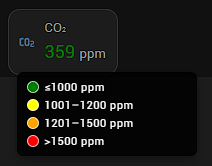
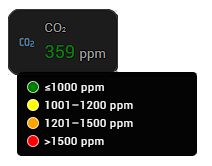
Update readme

diff --git a/numeric-legend-card.js b/numeric-legend-card.js
@@ -3,7 +3,7 @@
 
 import { LitElement, html, css } from "lit";
 
-const CARD_VERSION = "0.2.5";
+const CARD_VERSION = "0.2.6";
 
 console.info(
   `%cSENSOR-LEGEND-CARD %c${CARD_VERSION}`,

diff --git a/README.md b/README.md
@@ -13,8 +13,8 @@ Custom Lovelace card for Home Assistant dashboards that shows a single sensor va
 
 ### HACS (recommended)
 1. In Home Assistant open **HACS → Frontend → ⋮ → Custom repositories**.
-2. Add this repo URL (`https://github.com/VahaC/HA-Sensor-legend-card`) and pick category **Lovelace**.
-3. After the repository appears in HACS, press **Download**. HACS will copy the whole folder into `/config/www/community/sensor-legend-card/`. Only the bundled `sensor-legend-card.js` is required at runtime; the `src/` directory contains the unbundled sources and is there just for reference.
+2. Add this repo URL (`https://github.com/VahaC/HA-Sensor-legend-card`) and pick category **Dashboard**.
+3. After the repository appears in HACS, press **Download**. 
 4. Restart Home Assistant (or click **Reload resources**) so the new resource is picked up.
 5. Add the resource automatically via HACS prompt or manually under **Settings → Dashboards → Resources** with:
 	 - URL: `/hacsfiles/sensor-legend-card/sensor-legend-card.js`
@@ -22,7 +22,7 @@ Custom Lovelace card for Home Assistant dashboards that shows a single sensor va
 
 ### Manual
 1. Download the latest `sensor-legend-card.js` from the releases page.
-2. Copy it to your Home Assistant `config/www/sensor-legend-card/` folder (create the folder if missing). The `src/` directory in the repo only contains development sources, so you can skip it for manual installs.
+2. Copy it to your Home Assistant `config/www/sensor-legend-card/` folder (create the folder if missing). 
 3. Add a Lovelace resource pointing to `/local/sensor-legend-card/sensor-legend-card.js` with resource type `module`.
 4. Clear browser cache or reload resources from **Developer Tools → YAML → Reload resources**.
 
@@ -32,23 +32,32 @@ Once the resource is available, add the card either through the visual editor (s
 
 ```yaml
 type: custom:sensor-legend-card
-entity: sensor.air_quality
-name: Living room AQI
-decimals: 1
-unit: "µg/m³"
-tap_action:
-    action: more-info
+decimals: 0
+entity: sensor.living_air_sensor_co2
 legend_items:
-    - text: Excellent (0-50)
-        color: "#2ecc71"
-        max: 50
-    - text: Moderate (51-100)
-        color: "#f1c40f"
-        min: 51
-        max: 100
-    - text: Poor (>100)
-        color: "#e74c3c"
-        min: 101
+  - text: ≤1000 ppm
+    color: green
+    max: 1000
+  - text: 1001–1200 ppm
+    color: yellow
+    min: 1001
+    max: 1200
+  - text: 1201–1500 ppm
+    color: orange
+    min: 1201
+    max: 1500
+  - text: ">1500 ppm"
+    color: red
+    min: 1501
+grid_options:
+  columns: 3
+  rows: 1
+name: CO₂
+tap_action:
+  action: more-info
+icon: ""
+icon_tap_action:
+  action: more-info
 ```
 ![alt text](card-image.png)
 ![alt text](editor-image.png)
